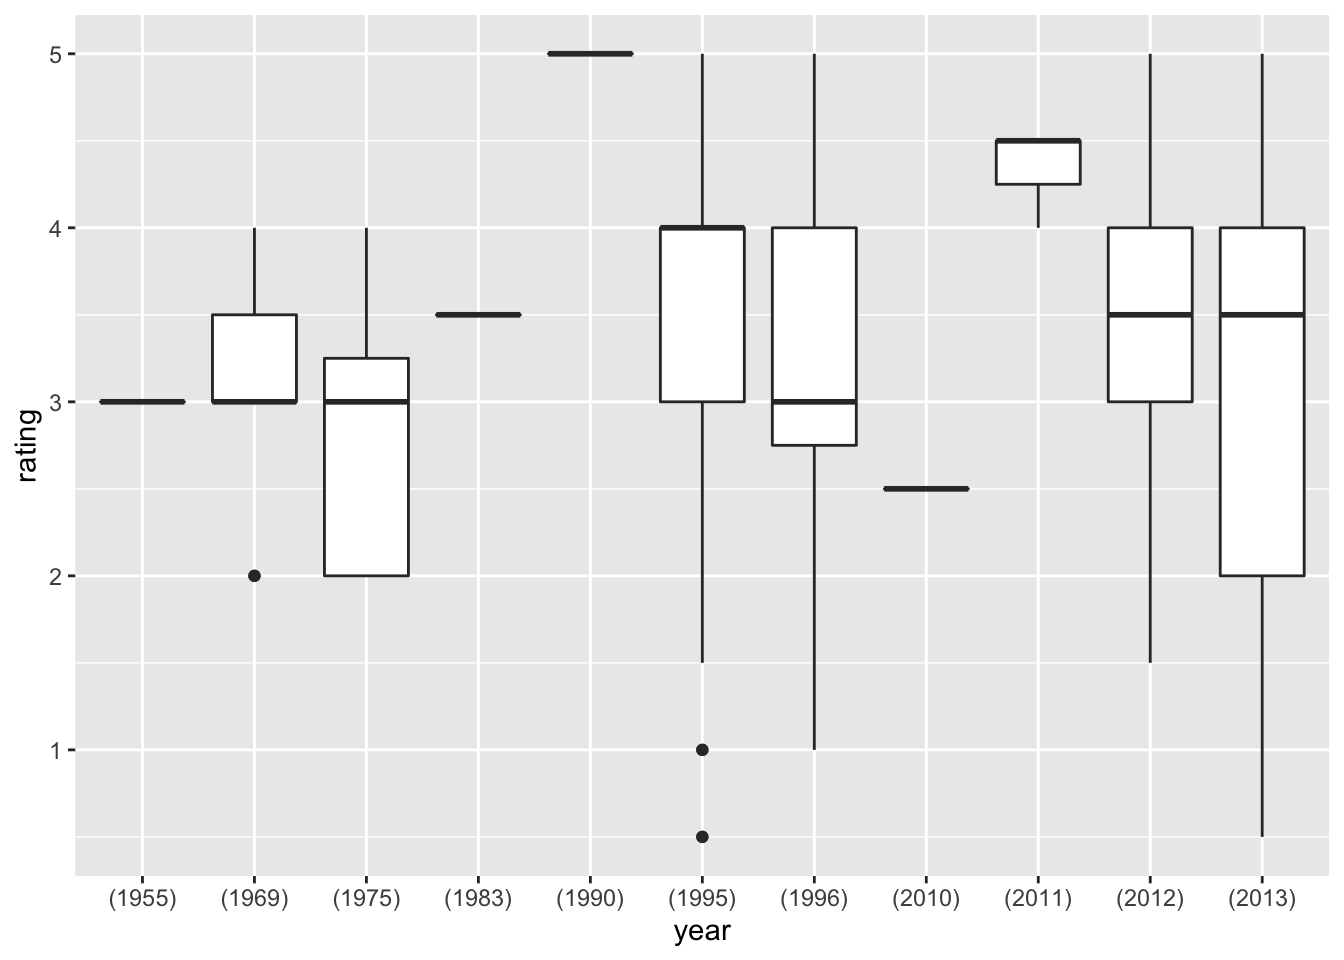
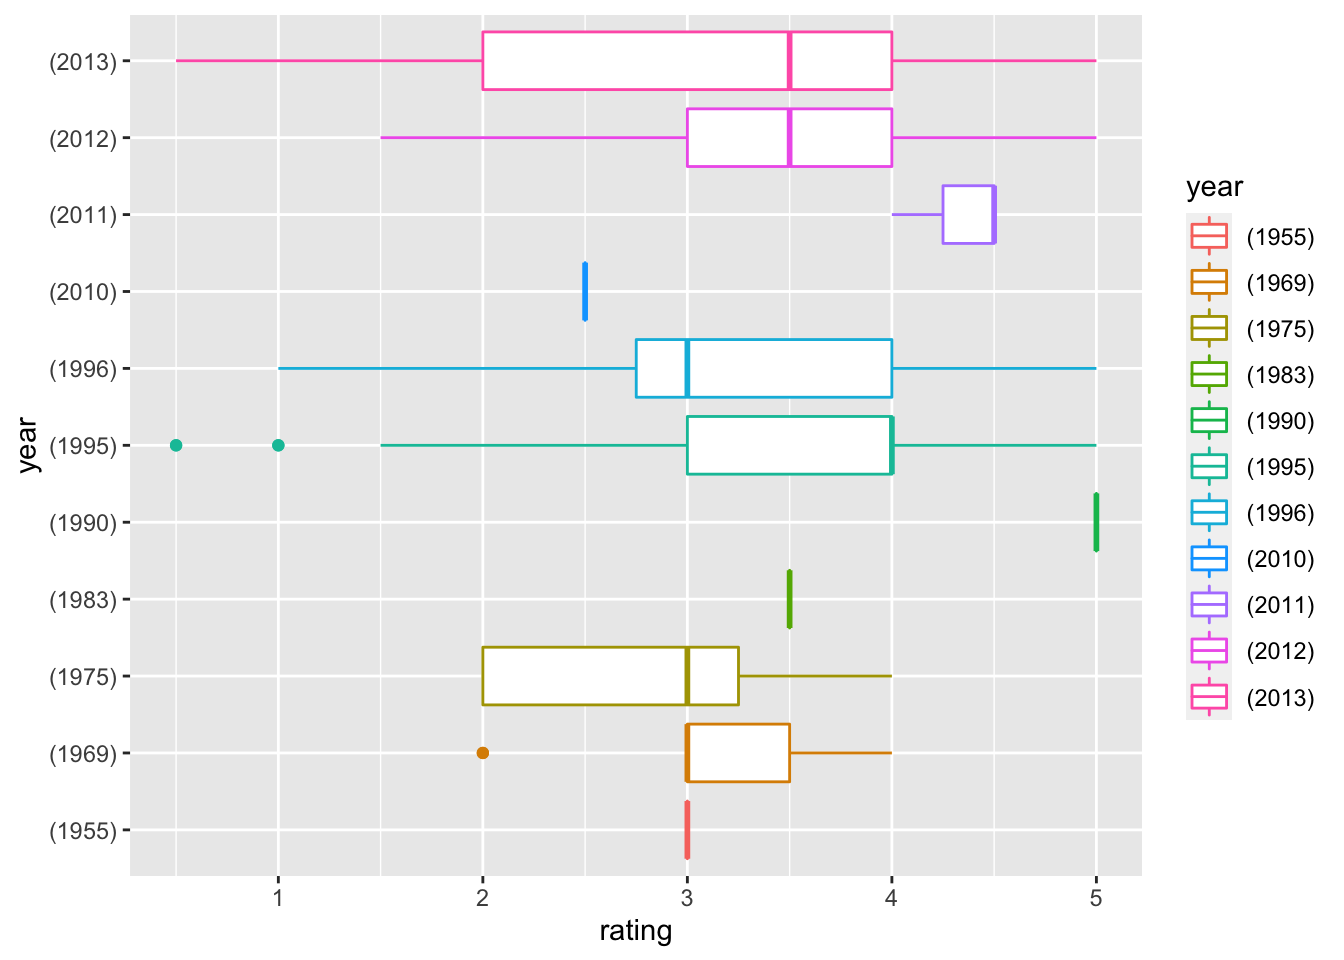
EDA updated--yw3608

diff --git a/EDA.html b/EDA.html
@@ -298,14 +298,18 @@ $(document).ready(function () {
 </div>
 
 
-<div id="find-popular-movies-and-high-rating-movies" class="section level1">
-<h1>Find popular movies and high-rating movies</h1>
+<div id="data-discription" class="section level1">
+<h1>Data discription</h1>
 <p><strong>Import dependencies</strong></p>
 <pre class="r"><code>knitr::opts_chunk$set(echo = TRUE)
 library(tidyverse)
 library(readr)
 library(ggplot2)
 library(kableExtra)</code></pre>
+<p><strong>Overview of data sets</strong></p>
+</div>
+<div id="find-popular-movies-and-high-rating-movies" class="section level1">
+<h1>Find popular movies and high-rating movies</h1>
 <p><strong>Data preparation</strong></p>
 <pre class="r"><code>data_path = &quot;./data/small/ratings.csv&quot;
 
@@ -438,9 +442,9 @@ filter_ratingscore =
 boxplot_df = 
   merge(filter_ratingscore, movie_names) %&gt;%
   head(400) %&gt;%
- ggplot(aes(x = rating, y = genres),color = genres) + geom_boxplot()
+ ggplot(aes(x = rating, y = genres)) + geom_boxplot(aes(color = genres))
 boxplot_df </code></pre>
-<p><img src="EDA_files/figure-html/unnamed-chunk-4-1.png" width="672" /></p>
+<p><img src="EDA_files/figure-html/unnamed-chunk-5-1.png" width="672" /></p>
 <div id="boxplot-regarding-ratings-and-years" class="section level2">
 <h2>Boxplot regarding: ratings and years</h2>
 <pre class="r"><code>movie_names = 
@@ -451,10 +455,10 @@ boxplot_df </code></pre>
 boxplot_df2 = 
   merge(filter_ratingscore, movie_names) %&gt;%
   head(500) %&gt;%
-  ggplot(aes(x = rating, y = year),color = year) + geom_boxplot()+
+  ggplot(aes(x = rating, y = year)) + geom_boxplot(aes(color = year))+
   viridis::scale_fill_viridis(discrete = TRUE)
 boxplot_df2 </code></pre>
-<p><img src="EDA_files/figure-html/unnamed-chunk-5-1.png" width="672" /></p>
+<p><img src="EDA_files/figure-html/unnamed-chunk-6-1.png" width="672" /></p>
 </div>
 <div id="boxplot-regarding-ratings-and-genres-genre-split" class="section level2">
 <h2>Boxplot regarding ratings and genres, (genre split)</h2>
@@ -498,10 +502,10 @@ tag_review =
 <pre class="r"><code>tag_review_plot =
   merge(tags.full ,filter_ratingscore) %&gt;% 
   head(30) %&gt;%
-  ggplot(aes(x = rating, y = tag),color = tag) + geom_boxplot()+
+  ggplot(aes(x = rating, y = tag)) + geom_boxplot(aes(color = tag))+
   viridis::scale_fill_viridis(discrete = TRUE)
 tag_review_plot</code></pre>
-<p><img src="EDA_files/figure-html/unnamed-chunk-7-1.png" width="672" /></p>
+<p><img src="EDA_files/figure-html/unnamed-chunk-8-1.png" width="672" /></p>
 </div>
 <div id="find-the-average-rating-of-each-categories-in-different-year" class="section level2">
 <h2>Find the average rating of each categories in different year</h2>
@@ -658,6 +662,7 @@ Comedy|Drama
 </div>
 <div id="kruskal-test-regarding-user_id-and-rating" class="section level2">
 <h2>Kruskal Test regarding user_id and rating</h2>
+<p>Assumption: <span class="math inline">\(H0:\mu0=\mu1=\mu2=\mu3=...=\mu x\)</span> <span class="math inline">\(H1: At least two of the mean ratings of the users are different.\)</span></p>
 <pre class="r"><code>kruskal.test(rating ~ user_id, data = filter_ratingscore) %&gt;% 
  broom::tidy() %&gt;% 
  knitr::kable(digits = 100000) %&gt;% 
